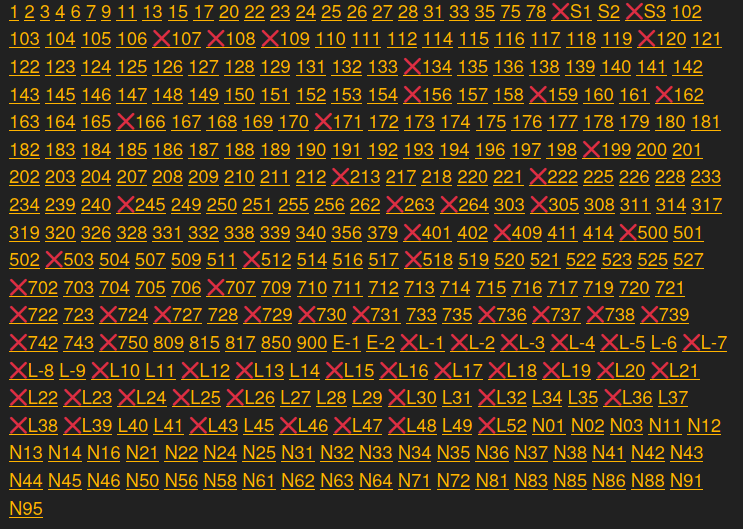
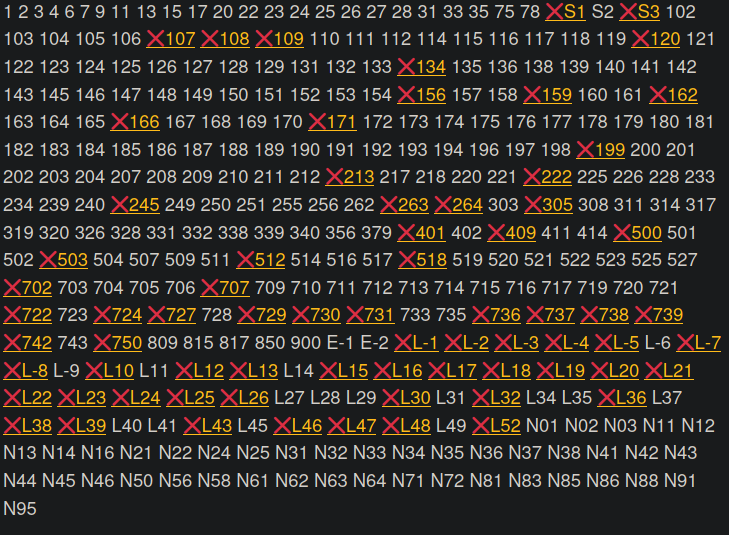
OSM-WTP: changes

diff --git a/content/posts/osm-wtp.pl.md b/content/posts/osm-wtp.pl.md
@@ -12,14 +12,9 @@ Porównuję dla każdego wariantu linii listę przystanków.
 Dodatkowo znajdowana jest część błędów związanych z tagowaniem w OpenStreetMap.
 
 ## Treść strony
-Na górze znajduje się lista linii z linkami. Dla linii z błędem wyświetla się &#10060;.
+Na górze znajduje się lista linii. Dla linii z błędem wyświetla się link z &#10060;.
 
 {{< image src="/img/osm-wtp/lines.png" >}}
-
-Potem są wyniki dla kojejnych linii.
-Dla linii, gdzie wszystkie warianty zgadzają się z danymi WTP wyświetla się ok.
-
-{{< image src="/img/osm-wtp/ok.png" >}}
 
 Dla linii z błędami wyświetlone są tabelki porównujące nazwy i numery przystanków z OSM i WTP.
 Kolory oznaczają, co należy zrobić w OSM, aby doprowadzić do stanu z WTP: zielony dodać przystanki,
@@ -44,8 +39,11 @@ W WTP numery przystanków mają sześć cyfr, gdzie pierwsze cztery oznaczają n
 a dwie ostatnie numer przystanku w zespole.
 Dodatkowo wyświetlane są nazwy (tag `name`).
 
+Problemem był brak linku do ostatniego przystanku na stronie WTP.
+Wyświetla się tylko nazwa, a nie są one unikalne w aglomeracji warszawskiej. 
+
 ## Inne narzędzia
-Aglomeracja warszawska jest skonfigurawana w [PTNA Public Transport Network Analysis](https://ptna.openstreetmap.de/).
+Aglomeracja warszawska jest skonfigurowana w [PTNA Public Transport Network Analysis](https://ptna.openstreetmap.de/).
 Dobrym źródłem jest [GTFS Warsaw](https://mkuran.pl/gtfs/warsaw.zip), który też można znaleźć w powyższym narzędziu.
 Jest także sporo narzędzi Quality Assurance, które znajdują błędy w relacjach transportu publicznego.
 
